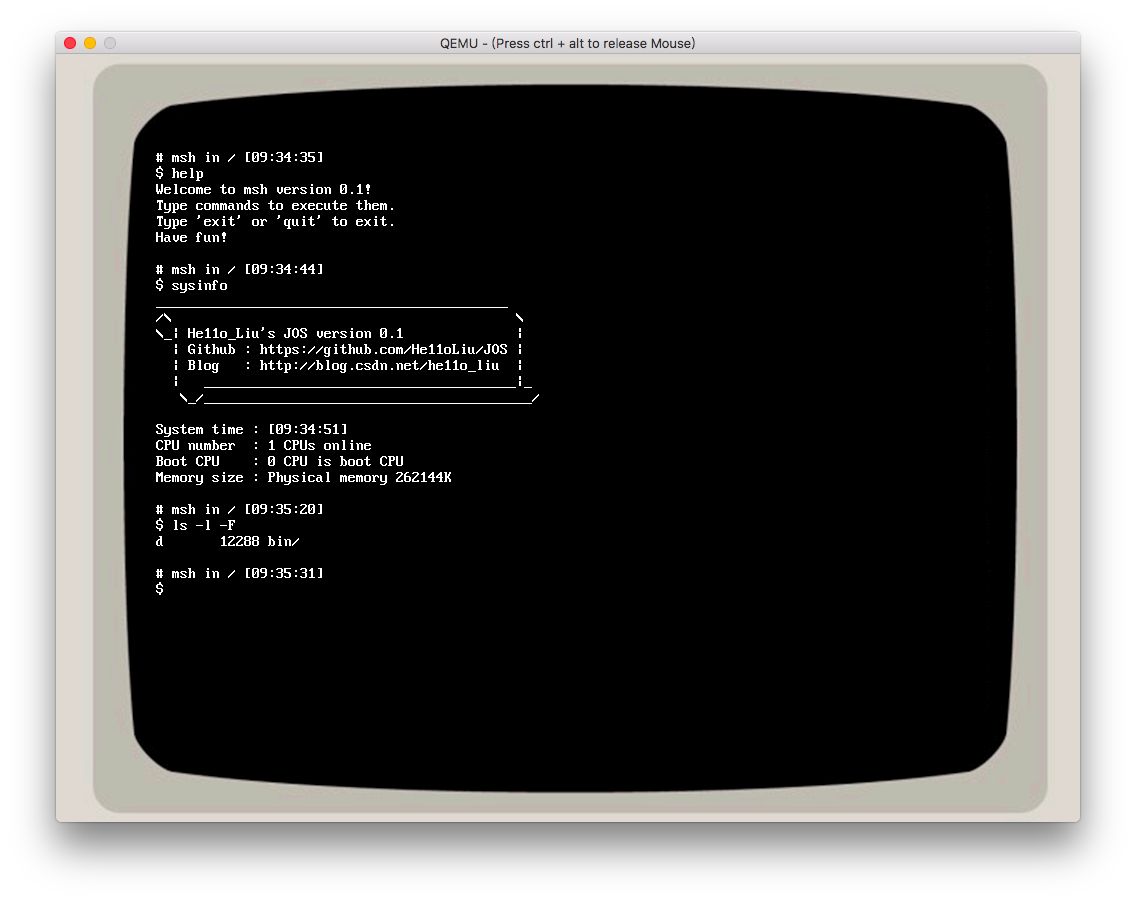
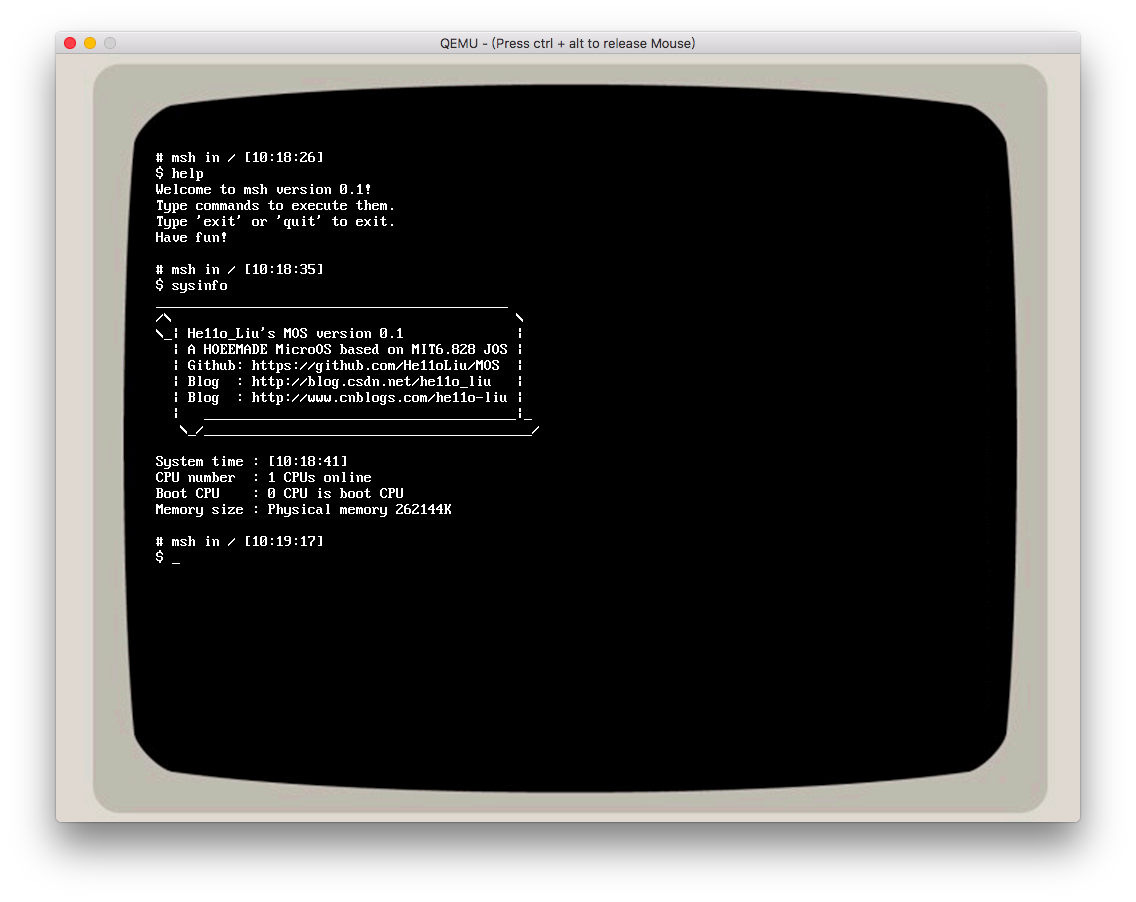
Add explanations about terminal

Changed region(s): [[0.1232, 0.3725, 0.4621, 0.6519], [0.2465, 0.2794, 0.2773, 0.3104]]

diff --git a/lib/bprintf.c b/lib/bprintf.c
@@ -1,8 +1,6 @@
 #include <inc/bprintf.h>
 #include <inc/interface.h>
 
-uint16_t screen_pos = 0;
-
 struct screen screen;
 
 
@@ -36,18 +34,18 @@ void bputchar(char c)
     switch (c)
     {
     case '\b': /* backspace */
-        if (screen_pos > 0)
+        if (screen.screen_pos > 0)
         {
-            screen_pos--;
+            screen.screen_pos--;
             // delete the character
-            screen.screen_buf[screen_pos] = ' ';
+            screen.screen_buf[screen.screen_pos] = ' ';
         }
         break;
     case '\n': /* new line */
-        screen_pos += SCREEN_COL;
+        screen.screen_pos += SCREEN_COL;
     /* fallthru */
     case '\r': /* return to the first character of cur line */
-        screen_pos -= (screen_pos % SCREEN_COL);
+        screen.screen_pos -= (screen.screen_pos % SCREEN_COL);
         break;
     case '\t':
         bputchar(' ');
@@ -56,24 +54,22 @@ void bputchar(char c)
         bputchar(' ');
         break;
     default:
-        screen.screen_buf[screen_pos++] = c; /* write the character */
+        screen.screen_buf[screen.screen_pos++] = c; /* write the character */
         break;
     }
 
     // When current pos reach the bottom of the creen
-    // case '\n' : screen_pos -= SCREEN_COL will work
-    // case other: screen_pos must equal to SCREEN_SIZE
-    if (screen_pos >= SCREEN_SIZE)
+    // case '\n' : screen.screen_pos -= SCREEN_COL will work
+    // case other: screen.screen_pos must equal to SCREEN_SIZE
+    if (screen.screen_pos >= SCREEN_SIZE)
     {
         int i;
         // Move all the screen upward (a line)
-        cprintf("before memmove!");
         memmove(screen.screen_buf, screen.screen_buf + SCREEN_COL, (SCREEN_SIZE - SCREEN_COL) * sizeof(uint8_t));
-        cprintf("after memmove!");
         // Clear the bottom line
         for (i = SCREEN_SIZE - SCREEN_COL; i < SCREEN_SIZE; i++)
             screen.screen_buf[i] = ' ';
-        screen_pos -= SCREEN_COL;
+        screen.screen_pos -= SCREEN_COL;
     }
     screen.screen_col = SCREEN_COL;
     screen.screen_row = SCREEN_ROW;

diff --git a/user/sysinfo.c b/user/sysinfo.c
@@ -8,7 +8,7 @@ umain(int argc, char **argv)
 	sys_gettime(&time);
     printf("____________________________________________\n");
     printf("/\\                                           \\\n");
-    printf("\\_| He11o_Liu's MOS version 0.1             |\n");
+    printf("\\_| He11o_Liu's MOS version 0.1              |\n");
     printf("  | A HOEEMADE MicroOS based on MIT6.828 JOS |\n");
     printf("  | Github: https://github.com/He11oLiu/MOS  |\n");
     printf("  | Blog  : http://blog.csdn.net/he11o_liu   |\n");

diff --git a/lib/interface.c b/lib/interface.c
@@ -134,6 +134,8 @@ int draw_screen(uint16_t x, uint16_t y, struct screen *screen, uint8_t color, ui
         for (screen_x = 0; screen_x < screen->screen_col; screen_x++)
         {
             c = *(str + screen_x + screen_y * screen->screen_col);
+            if(screen->screen_pos == screen_x + screen_y * screen->screen_col)
+                c = '_';
             font = (char *)(ascii_8_16 + (c - 0x20) * 16);
             for (i = 0; i < 16; i++)
                 for (j = 0; j < 8; j++)

diff --git a/inc/bprintf.h b/inc/bprintf.h
@@ -7,7 +7,6 @@
 #include <inc/usyscall.h>
 #include <inc/string.h>
 
-
 #define SCREEN_ROW 35
 #define SCREEN_COL 103
 #define SCREEN_SIZE (SCREEN_ROW * SCREEN_COL)
@@ -16,6 +15,7 @@ struct screen
 {
     uint8_t screen_col;
     uint8_t screen_row;
+    uint16_t screen_pos;
     char screen_buf[SCREEN_SIZE];
 };
 

diff --git a/documents/[finish]图形化界面.md b/documents/[finish]图形化界面.md
@@ -601,9 +601,211 @@ void launch_app()
 
 这个程序的代码已经放在上面了，主要是设计了一个新的`syscall`，用于从内核中返回一些基本系统信息。
 
-### 终端[Working on it]
 
-已经实现了一个`CGA`模拟器，并提供单独的`fd device`
+
+## Part4 模拟CGA显示模式终端应用
+
+![](./img/GUI4.png)
+
+终端程序与普通程序的设计思路完全不同，本部分将根据我的思考来一步步阐述如何实现终端`APP`。
+
+### 思路
+
+作为一个终端程序，
+
+- 终端模拟器应该支持一种`printf`能显示到屏幕的功能。
+
+  - `printf`是向文件描述符`1`进行输出。
+
+  - 查看之前写的`console`代码，`openconsole`的操作就是分配一个文件描述符，设置文件操作为(键盘输入，串口输出)的策略。
+
+  - 所以我们这个终端模拟器应该提供一种新的`device`，这种`device`提供了(键盘输入，屏幕输出)的功能。
+
+    ```c
+    struct Dev devscreen =
+        {
+            .dev_id = 's',
+            .dev_name = "screen",
+            .dev_read = devscreen_read,
+            .dev_write = devscreen_write,
+            .dev_close = devscreen_close,
+            .dev_stat = devscreen_stat};
+    ```
+
+  - 直接在屏幕上显示出来并不是一个很好的选择，参考`CGA`的显示，设计了一个屏幕字符缓冲区。
+
+    ```c
+    struct screen
+    {
+        uint8_t screen_col;
+        uint8_t screen_row;
+        uint16_t screen_pos;
+        char screen_buf[SCREEN_SIZE];
+    };
+    ```
+
+  - 提供新的`bprintf`方法，方便`screen device`调用。
+
+- 作为终端模拟器，其需要集成`fork`出来的各种进程的输出。
+
+  - 首先对于其他的程序，其输出也是`printf`
+  - 其他的程序会继承其父进程的文件描述符表。
+  - 父进程中的文件描述符`1`号，则应该指向上面定义的`screen` （这条思路最后没走通）
+
+### 思路中的`part1`
+
+这个部分的实现还是比较顺利的。上面已经定义了新的`device`。
+
+- 这个新的`device`的`read`策略，还是从键盘读，无须进行修改。
+- 而这个`device`的写策略，则需要写入到屏幕了。这里新写了一个`bprintf`的函数与其配套方法。(`bprintf` a.k.a `printf to buf`）
+
+`bprintf`的基本实现与之前在`CGA`模式的输出类似，所以才叫仿`CGA`模式。主要是`bputchar`的实现：
+
+```c
+
+void bputchar(char c)
+{
+    switch (c)
+    {
+    case '\b': /* backspace */
+        if (screen.screen_pos > 0)
+        {
+            screen.screen_pos--;
+            // delete the character
+            screen.screen_buf[screen.screen_pos] = ' ';
+        }
+        break;
+    case '\n': /* new line */
+        screen.screen_pos += SCREEN_COL;
+    /* fallthru */
+    case '\r': /* return to the first character of cur line */
+        screen.screen_pos -= (screen.screen_pos % SCREEN_COL);
+        break;
+    case '\t':
+        bputchar(' ');
+        bputchar(' ');
+        bputchar(' ');
+        bputchar(' ');
+        break;
+    default:
+        screen.screen_buf[screen.screen_pos++] = c; /* write the character */
+        break;
+    }
+    // When current pos reach the bottom of the creen
+    // case '\n' : screen.screen_pos -= SCREEN_COL will work
+    // case other: screen.screen_pos must equal to SCREEN_SIZE
+    if (screen.screen_pos >= SCREEN_SIZE)
+    {
+        int i;
+        // Move all the screen upward (a line)
+        memmove(screen.screen_buf, screen.screen_buf + SCREEN_COL, (SCREEN_SIZE - SCREEN_COL) * sizeof(uint8_t));
+        // Clear the bottom line
+        for (i = SCREEN_SIZE - SCREEN_COL; i < SCREEN_SIZE; i++)
+            screen.screen_buf[i] = ' ';
+        screen.screen_pos -= SCREEN_COL;
+    }
+    screen.screen_col = SCREEN_COL;
+    screen.screen_row = SCREEN_ROW;
+    draw_screen(100, 80, &screen, 0x00, 0xff, 1);
+}
+```
+
+`bputchar`实现了对特殊描述符，换行，翻页的情况的处理，并将打印的内容放入屏幕字符缓冲区。
+
+最后要实现的就是把屏幕缓冲区的内容放倒屏幕上。这个实现起来就比较简单了，遍历字符串，然后一个个字从字库中获取显示信息显示出来即可。
+
+
+
+### 思路中的`part2`
+
+`part2`才是设计终端中需要动脑子的地方。正如思路中所说，我一开始的想法是：
+
+### 老思路
+
+*父进程中的文件描述符`1`号，则应该指向上面定义的`screen`*
+
+然而没有考虑这个问题：
+
+**`interface`与`screen`参数均属于与之平等的另一个用户程序！**在调用`bprintf`的时候，没有初始化`screen`，也不知道`interface`在哪里。
+
+**之所以`CGA`模式可以使用这个思路是因为`CGA`的文字缓冲区是在内核中，可以看为这项服务是内核提供的，是一个上下级的关系，而不是平行的**
+
+如果必须要走这条路，有以下解决方法：
+
+- 在库中判断没有参数时，直接初始化`screen`与`interface`，可以做到直接新建一个输出页的效果。
+- 提升终端到内核中运行（无法忍受）
+- 使终端成为如同文件系统的非普通程序，接收输出请求。这个也很复杂，不够优雅！！！
+
+
+
+### 新思路 ： 利用 `Pipe`!!!!!!!!
+
+老思路中的第一条解决方法走通了后又思考了一会儿，实在不想走第二第三条路。
+
+换个思路一想，原来这个事可以这么简单。申请一个`pipe`，读取端给 （输出到屏幕的 ）服务进程作为输入来源，输出端给用户程序作为输出。程序输出的内容会通过`pipe`发送给服务进程，最终服务进程显示到屏幕上即可。
+
+整个程序的流程如下：
+
+- 终端程序打开屏幕输出设备，给文件描述符`1`（默认输出）
+- 终端程序申请`pipe`
+- 终端程序`fork`子进程
+  - 子进程关闭读的`pipe`，保留写的`pipe`，并将写的`pipe`给默认输出`1`，后面的程序输出都会写进`pipe`中。子进程开始运行`shell`。
+  - 父进程关闭写的`pipe`，保留读的`pipe`，并将读的`pipe`给默认输入`0`，后面程序的输入都会读`pipe`中的内容。父进程进入循环，服务所有的输入输出到屏幕的功能。
+
+来看核心代码：
+
+```c
+
+void umain(int argc, char **argv)
+{
+	...
+    close(1);
+    // 打开屏幕CGA输出到文件描述符1
+    if ((r = openscreen(&interface)) < 0)
+        panic("fd = %e\n", r);
+    cprintf("fd = %d\n", r);
+    // 申请一个pipe
+    if ((r = pipe(p)) < 0)
+    {
+        cprintf("pipe: %e", r);
+        exit();
+    }
+    readfd = p[0];
+    writefd = p[1];
+    r = fork();
+    if (r == 0)
+    {
+        close(readfd);
+        close(1);
+      	// 写入端给子进程作为其输出默认文件描述符1
+        dup(writefd, 1);
+      	// 运行shell (修改过，没有文件描述符操作版本)
+        msh(argc, argv);
+        printf("msh exit\n");
+        exit();
+    }
+    else
+    {
+        close(writefd);
+        close(0);
+      	// 读入端作为其默认读取文件描述符0
+        if (readfd != 0)
+            dup(readfd, 0);
+        close(readfd);
+    }
+
+    e = &envs[ENVX(r)];
+    while(1)
+    {
+      	// 获取所有的pipe中的数据并显示在模拟CGA屏幕上
+        r = getchar();
+        printf("%c", r);
+        // 当shell退出的时候退出
+        if(e->env_status == ENV_FREE)
+            break;
+    }
+}
+```
 
 
 

diff --git a/Readme.md b/Readme.md
@@ -144,7 +144,7 @@ Copyright (c) 2003-2017 Fabrice Bellard and the QEMU Project developers
 - 提供`Applauncher`
   - 日历应用
   - 系统信息应用
-  - 模拟CGA显示模式的终端程序
+  - 模拟`CGA`显示模式的终端程序（基于`pipe`)
 
   
 
